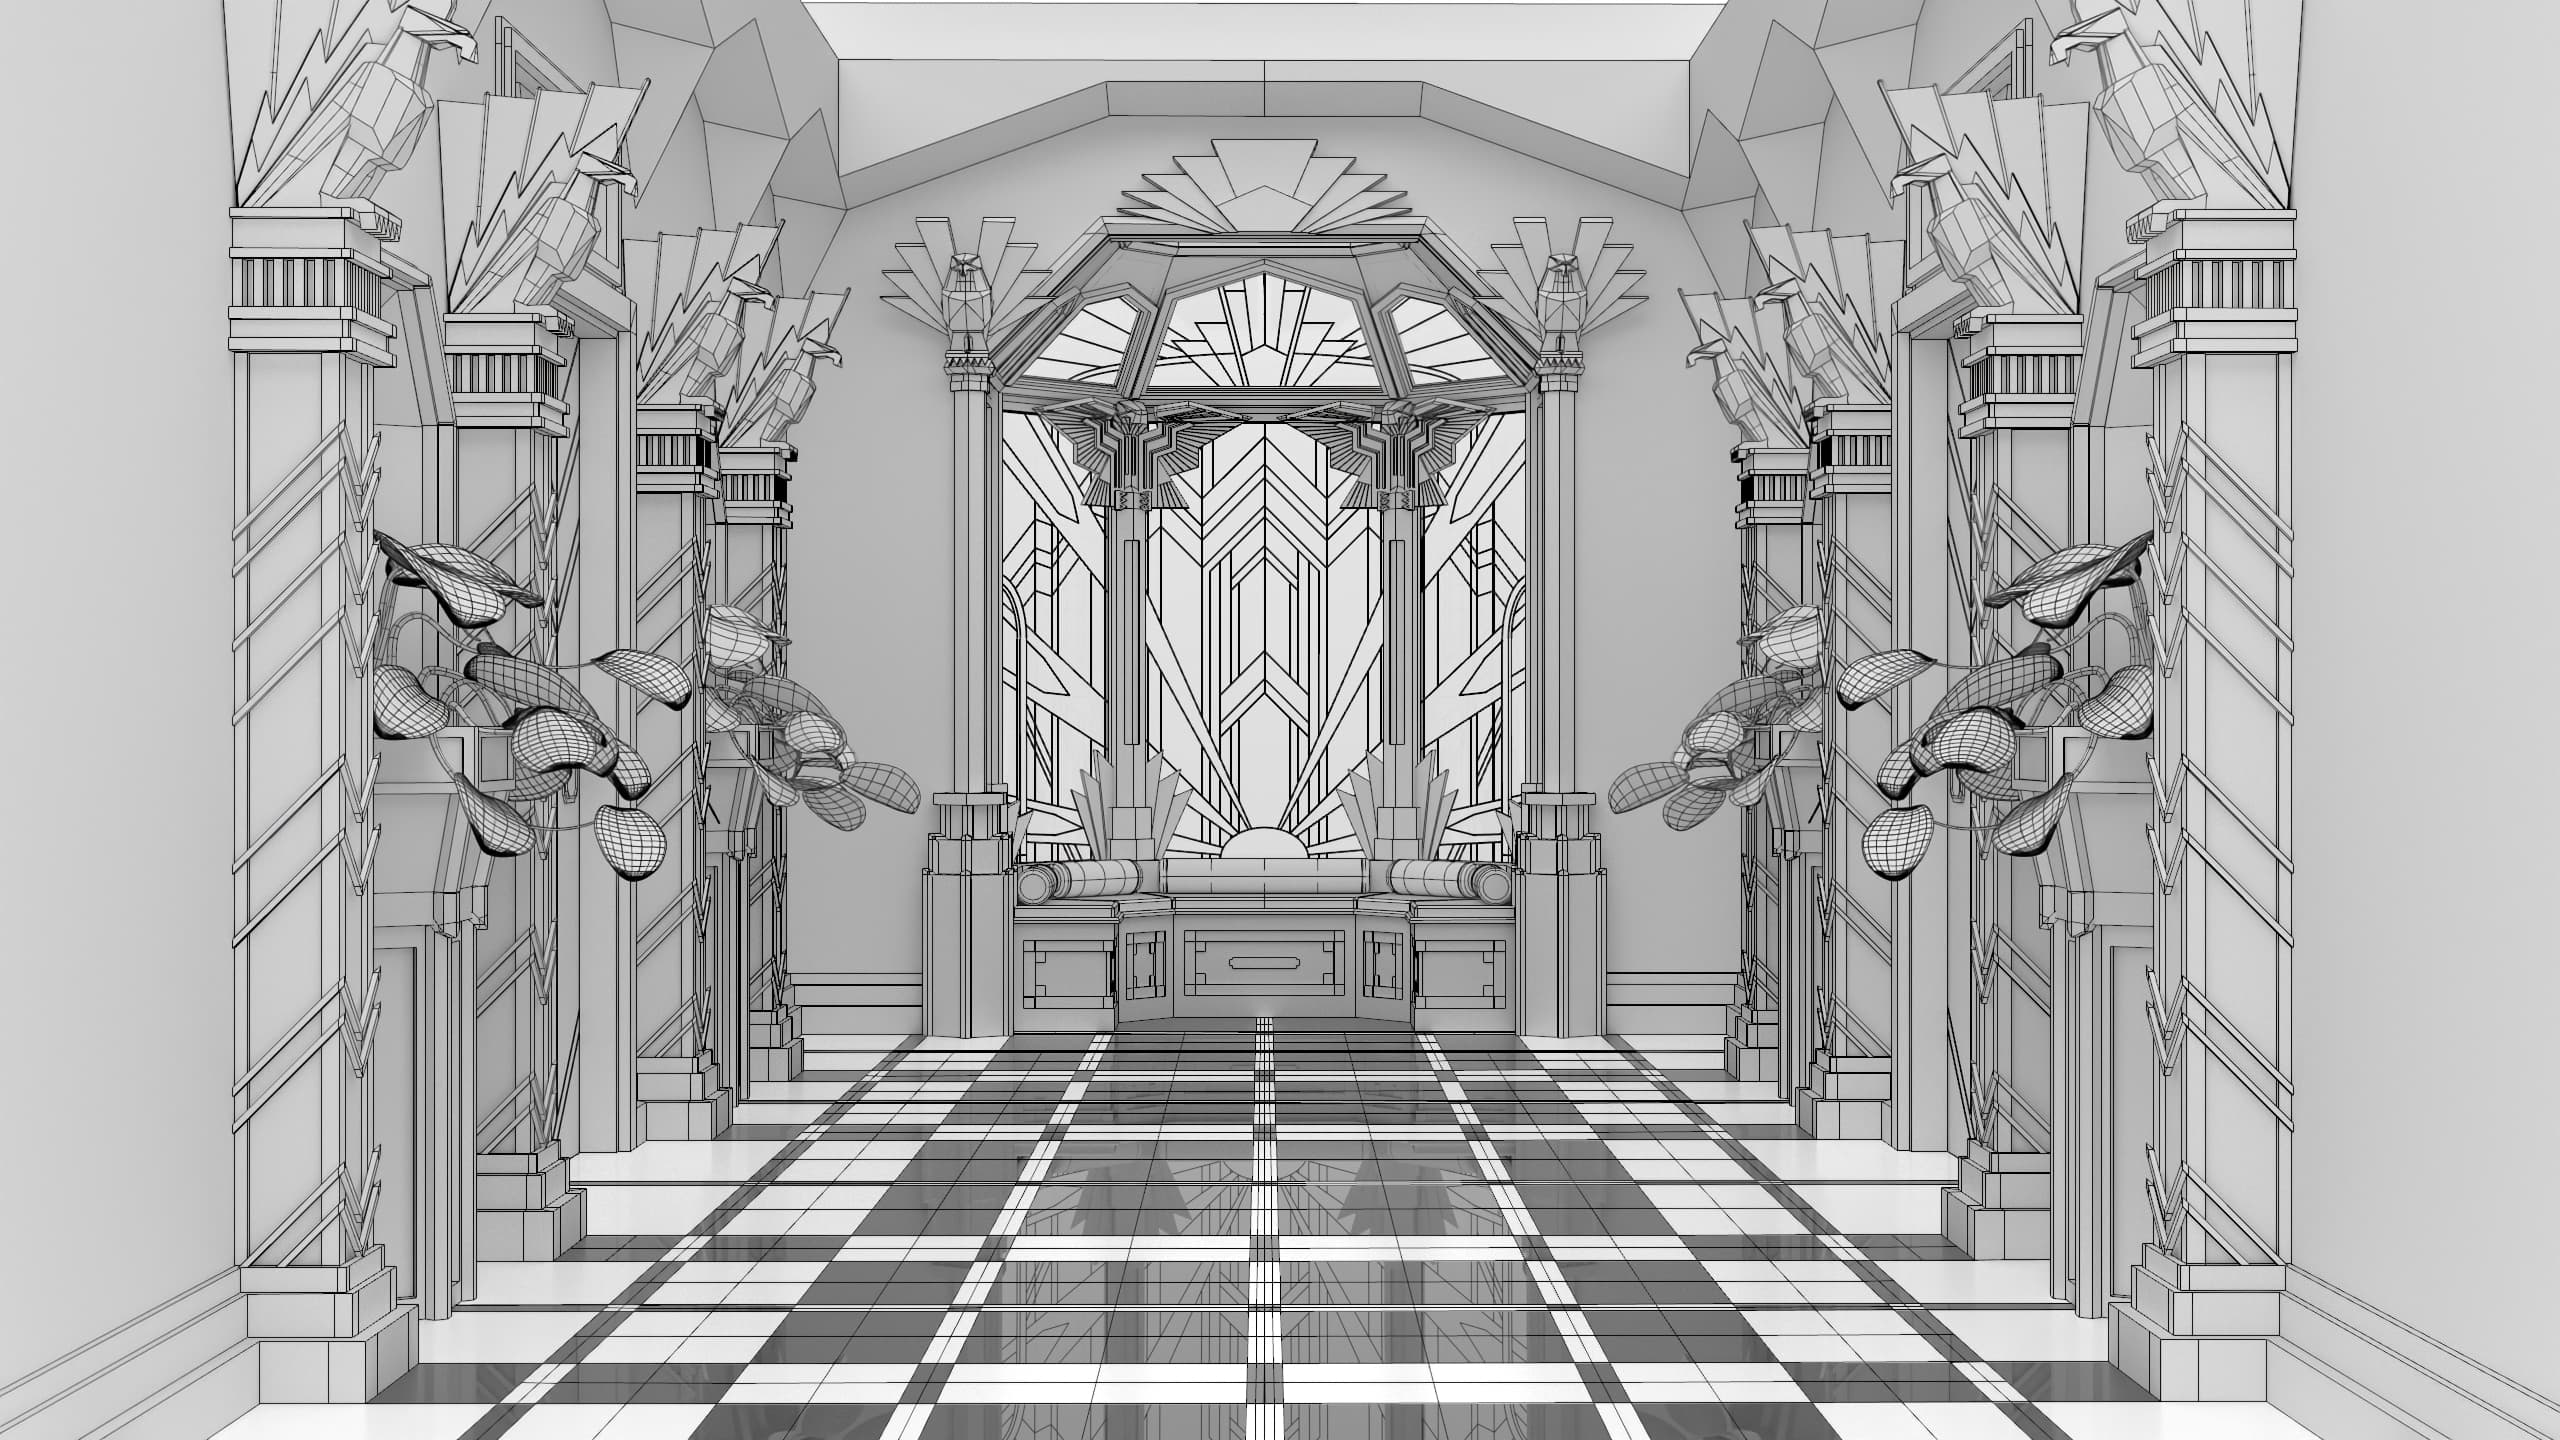
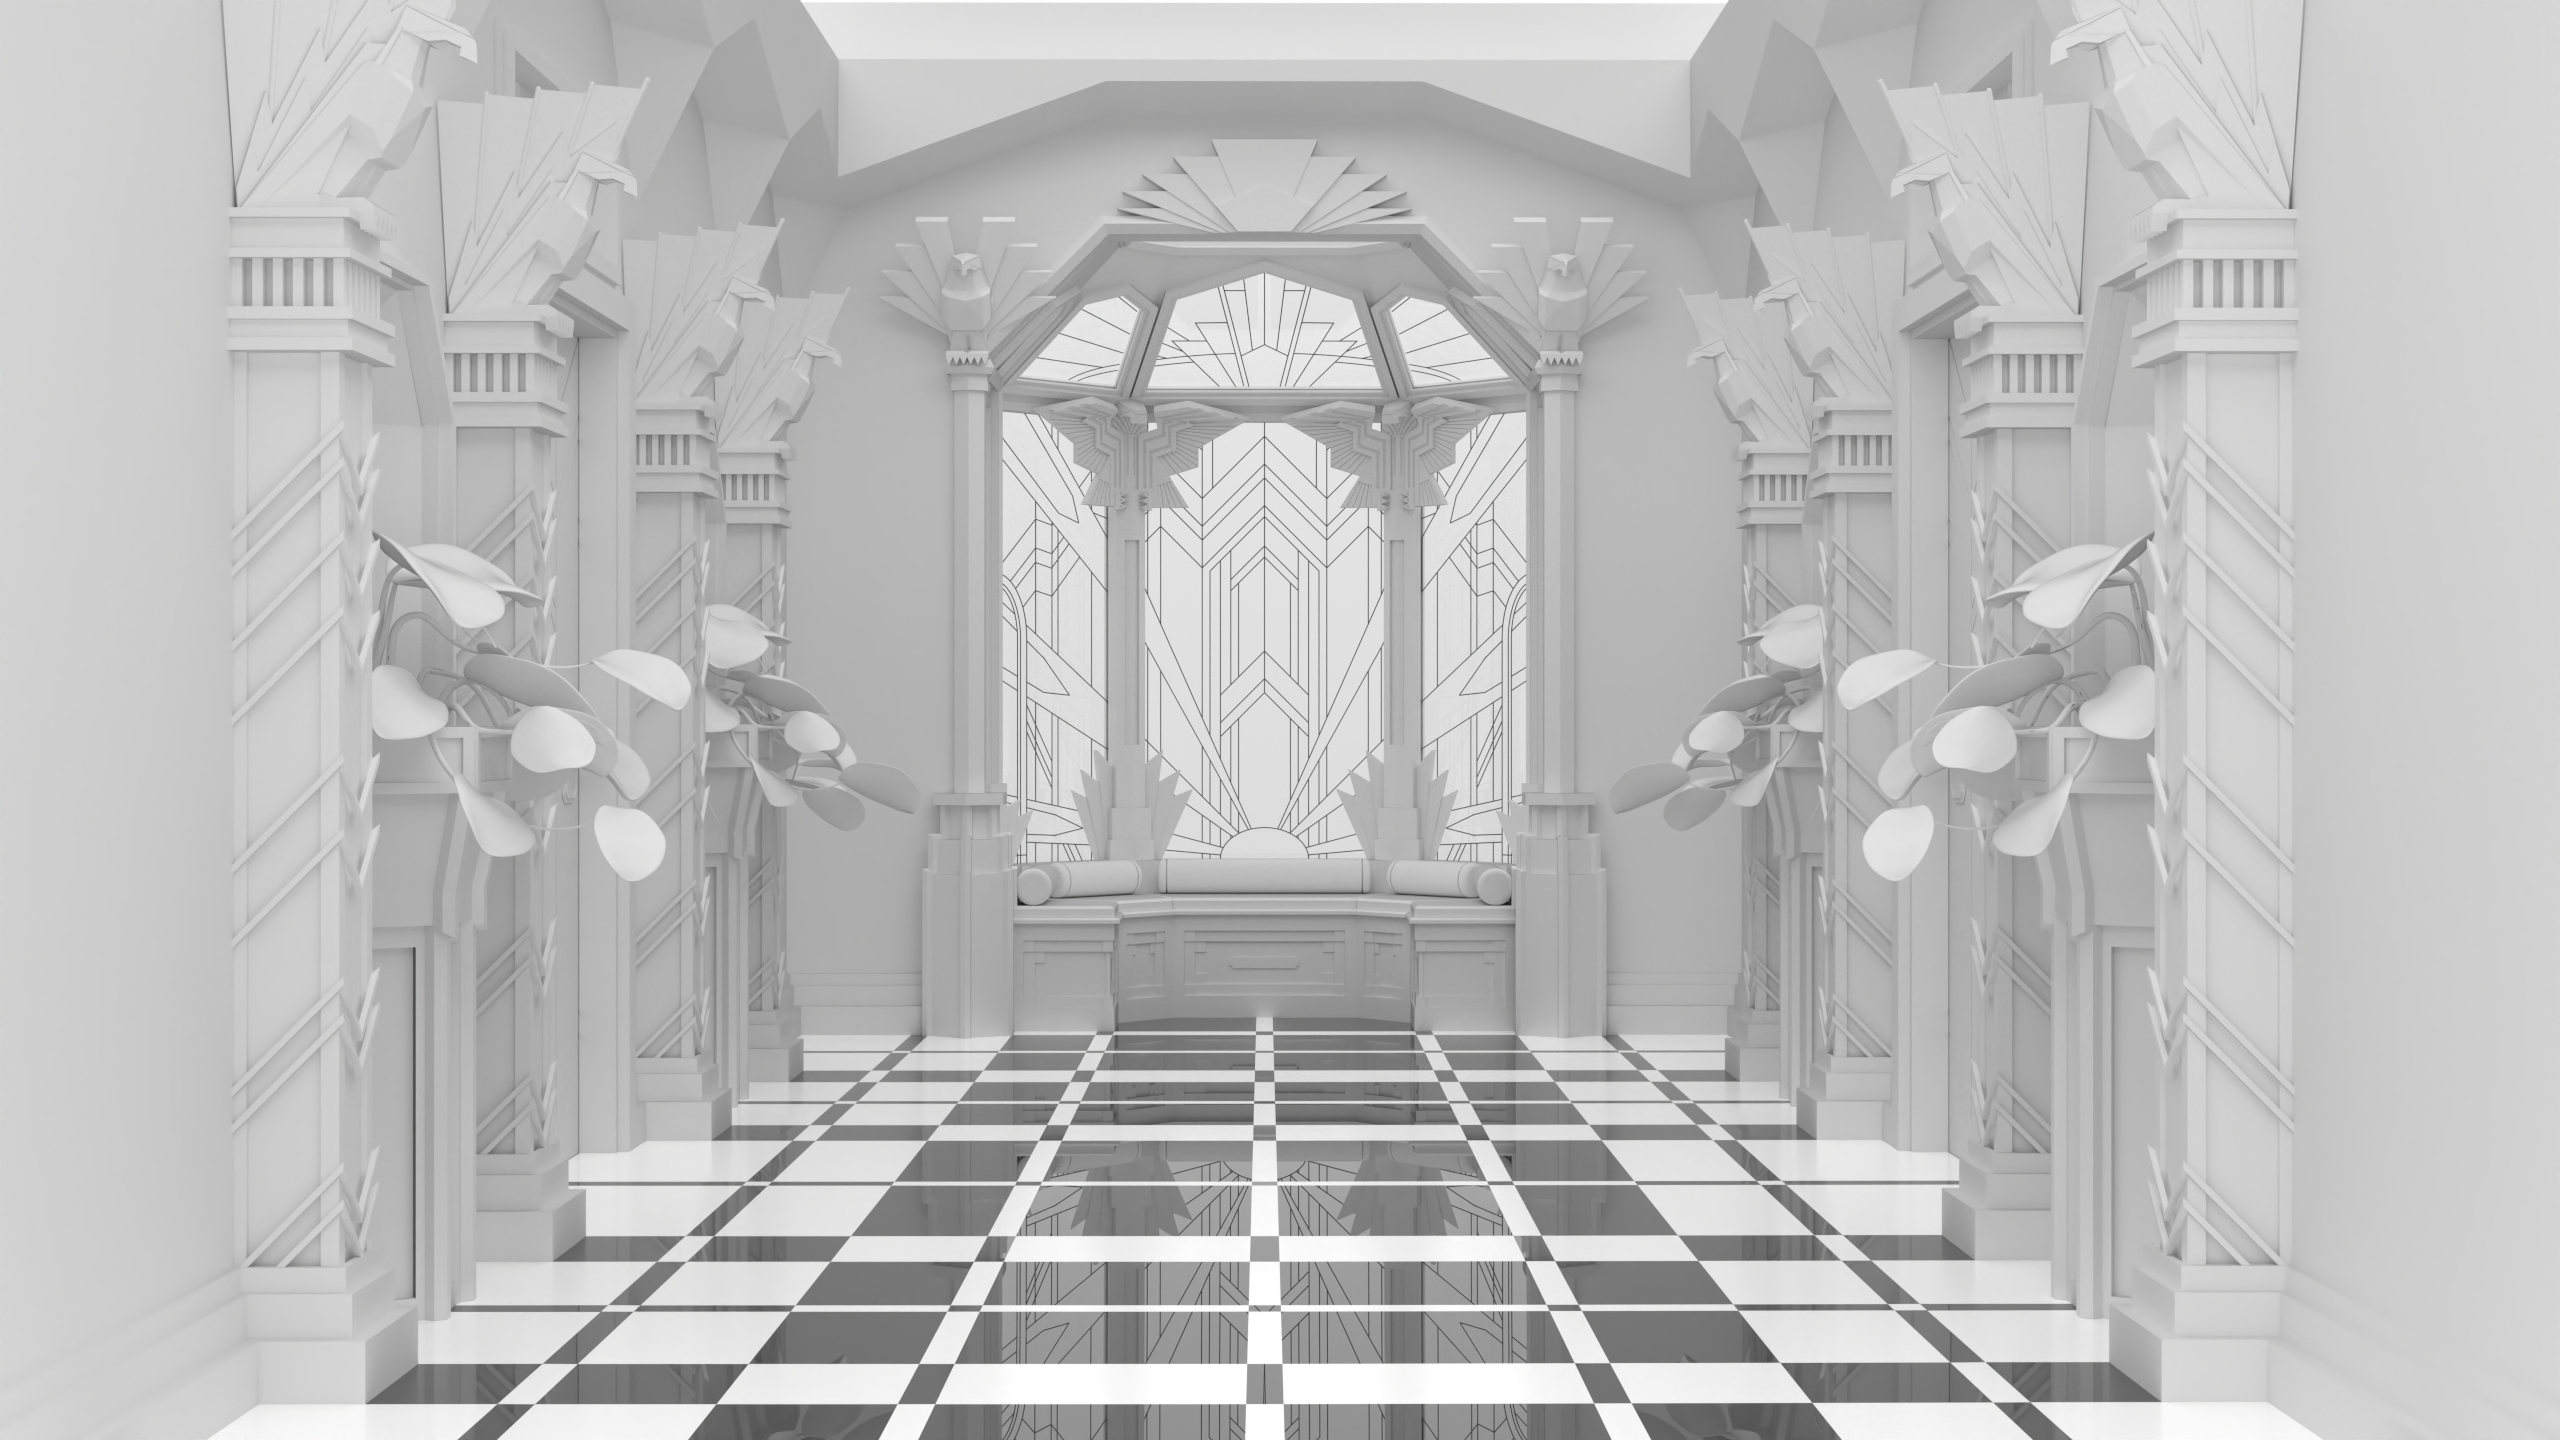
tweaks

diff --git a/app/art-direction/page.tsx b/app/art-direction/page.tsx
@@ -100,8 +100,8 @@ const projects = [
         layout: "pair",
         gap: "sm",
         images: [
-          { src: "/images/art-direction/easton-neston/2.JPG", caption: "" },
-          { src: "/images/art-direction/easton-neston/3.JPG", caption: "" },
+          { src: "/images/art-direction/easton-neston/2.jpg", caption: "" },
+          { src: "/images/art-direction/easton-neston/3.jpg", caption: "" },
         ],
       },
       {
@@ -115,7 +115,7 @@ const projects = [
         layout: "full",
         gap: "sm",
         images: [
-          { src: "/images/art-direction/easton-neston/6.jpg", caption: "Autocad Facade P&E" },
+          { src: "/images/art-direction/easton-neston/6.png", caption: "Autocad Facade P&E" },
         ],
       },
       {
@@ -159,7 +159,7 @@ const projects = [
         layout: "full",
         gap: "sm",
         images: [
-          { src: "/images/art-direction/american-dream/3.jpg", caption: "Rhino Set Section" },
+          { src: "/images/art-direction/american-dream/4.jpg", caption: "Rhino Set Section" },
         ],
       },
         {
@@ -180,8 +180,8 @@ const projects = [
         layout: "pair",
         gap: "sm",
         images: [
-          { src: "/images/art-direction/american-dream/7.JPG", caption: "Prop Sketches" },
-          { src: "/images/art-direction/american-dream/8.JPG", caption: "Prop Modelled & Rendered" },
+          { src: "/images/art-direction/american-dream/7.jpg", caption: "Prop Sketches" },
+          { src: "/images/art-direction/american-dream/8.jpg", caption: "Prop Modelled & Rendered" },
         ],
       },
     ],
